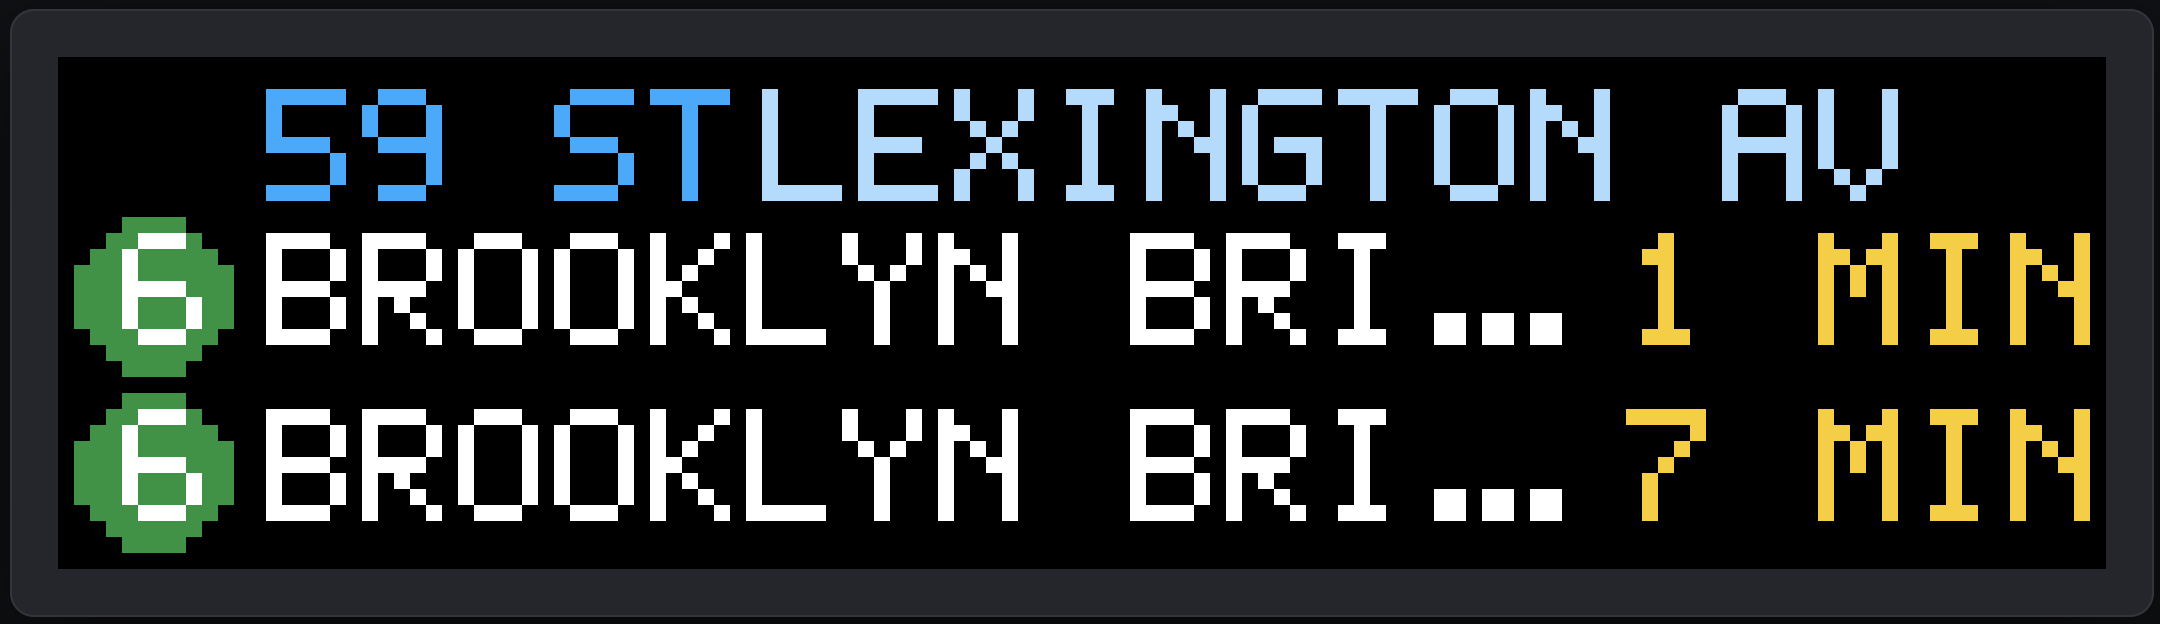
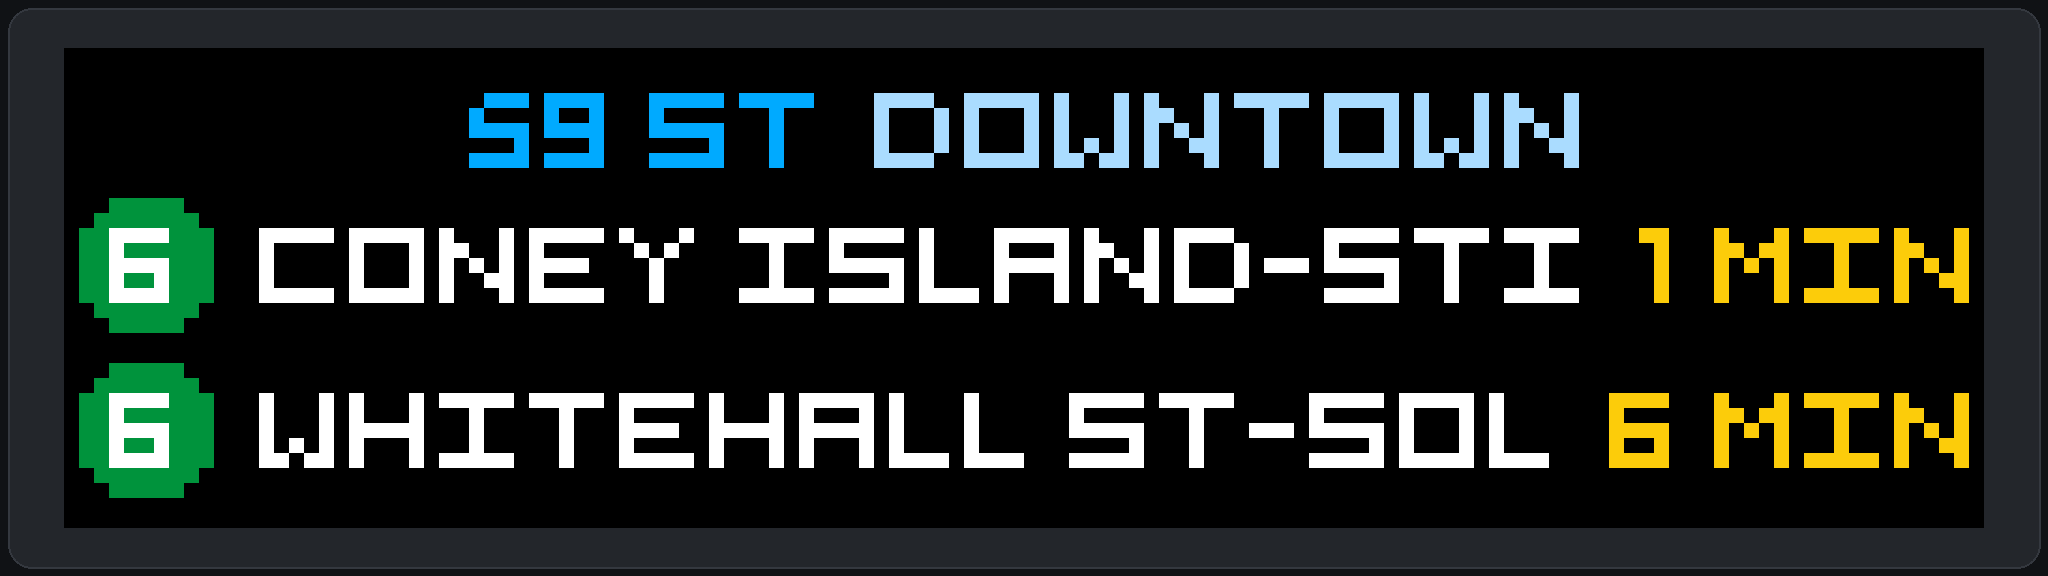
Use 5x5 Pixel font across board

Changed region(s): [[0.0, 0.0938, 1.0, 0.9375], [0.125, 0.125, 0.9062, 0.3438], [0.0312, 0.0625, 0.9688, 0.0938]]

diff --git a/src/mta_board/render.py b/src/mta_board/render.py
@@ -52,107 +52,71 @@ ROUTE_BULLET = (
     "011111110",
     "001111100",
 )
+ROUTE_PILL = (
+    "00111111100",
+    "01111111110",
+    "11111111111",
+    "11111111111",
+    "11111111111",
+    "11111111111",
+    "11111111111",
+    "01111111110",
+    "00111111100",
+)
 
-# Nitram Micro Mono 5x5 by Martin W. Kirst, used under the MIT License.
-# https://github.com/nitram509/nitram-micro-font
-ROUTE_GLYPHS: dict[str, tuple[int, ...]] = {
-    "0": (14, 25, 21, 19, 14), "1": (4, 6, 4, 4, 14),
-    "2": (14, 8, 14, 2, 14), "3": (14, 8, 12, 8, 14),
-    "4": (2, 2, 10, 14, 8), "5": (14, 2, 14, 8, 14),
-    "6": (6, 2, 14, 10, 14), "7": (14, 8, 12, 8, 8),
-    "8": (14, 10, 14, 10, 14), "9": (14, 10, 14, 8, 14),
-    "A": (6, 9, 17, 31, 17), "B": (7, 9, 15, 17, 15),
-    "C": (14, 17, 1, 17, 14), "D": (15, 25, 17, 17, 15),
-    "E": (31, 1, 15, 1, 31), "F": (31, 1, 15, 1, 1),
-    "G": (14, 1, 25, 17, 14), "H": (9, 17, 31, 17, 17),
-    "I": (14, 4, 4, 4, 14), "J": (12, 8, 8, 10, 14),
-    "K": (9, 5, 3, 5, 9), "L": (1, 1, 1, 1, 15),
-    "M": (17, 27, 21, 17, 17), "N": (17, 19, 21, 25, 17),
-    "O": (14, 25, 17, 17, 14), "P": (7, 9, 7, 1, 1),
-    "Q": (14, 17, 17, 25, 30), "R": (7, 9, 7, 5, 9),
-    "S": (30, 1, 14, 16, 15), "T": (31, 4, 4, 4, 4),
-    "U": (9, 17, 17, 17, 14), "V": (10, 10, 10, 10, 4),
-    "W": (9, 17, 21, 21, 10), "X": (17, 10, 4, 10, 17),
-    "Y": (17, 10, 4, 4, 4), "Z": (31, 8, 4, 2, 31),
-}
-
-# Fixed 5x7 bitmap glyphs keep every character aligned to the LED grid. Using
-# Pillow's default font here would allow different Pillow versions to select
-# antialiased fonts, which look soft when enlarged in the browser preview.
+# Bitmap glyphs derived from Daniel J. Smith's 5x5 Pixel font, distributed as
+# 100% Free. The source font only contains letters, digits, and spaces, so the
+# punctuation below is drawn to match. Storing the native-resolution bitmaps
+# keeps rendering crisp and identical across Pillow and FreeType versions.
+# https://www.dafont.com/5x5-pixel.font
 GLYPHS: dict[str, tuple[str, ...]] = {
-    " ": ("00000",) * 7,
-    "-": ("00000", "00000", "00000", "11111", "00000", "00000", "00000"),
-    ".": ("00000", "00000", "00000", "00000", "00000", "01100", "01100"),
-    "/": ("00001", "00010", "00100", "00100", "01000", "10000", "00000"),
-    "0": ("01110", "10001", "10011", "10101", "11001", "10001", "01110"),
-    "1": ("00100", "01100", "00100", "00100", "00100", "00100", "01110"),
-    "2": ("01110", "10001", "00001", "00010", "00100", "01000", "11111"),
-    "3": ("11110", "00001", "00001", "01110", "00001", "00001", "11110"),
-    "4": ("00010", "00110", "01010", "10010", "11111", "00010", "00010"),
-    "5": ("11111", "10000", "10000", "11110", "00001", "00001", "11110"),
-    "6": ("01110", "10000", "10000", "11110", "10001", "10001", "01110"),
-    "7": ("11111", "00001", "00010", "00100", "01000", "01000", "01000"),
-    "8": ("01110", "10001", "10001", "01110", "10001", "10001", "01110"),
-    "9": ("01110", "10001", "10001", "01111", "00001", "00001", "01110"),
-    "A": ("01110", "10001", "10001", "11111", "10001", "10001", "10001"),
-    "B": ("11110", "10001", "10001", "11110", "10001", "10001", "11110"),
-    "C": ("01111", "10000", "10000", "10000", "10000", "10000", "01111"),
-    "D": ("11110", "10001", "10001", "10001", "10001", "10001", "11110"),
-    "E": ("11111", "10000", "10000", "11110", "10000", "10000", "11111"),
-    "F": ("11111", "10000", "10000", "11110", "10000", "10000", "10000"),
-    "G": ("01111", "10000", "10000", "10111", "10001", "10001", "01110"),
-    "H": ("10001", "10001", "10001", "11111", "10001", "10001", "10001"),
-    "I": ("01110", "00100", "00100", "00100", "00100", "00100", "01110"),
-    "J": ("00001", "00001", "00001", "00001", "10001", "10001", "01110"),
-    "K": ("10001", "10010", "10100", "11000", "10100", "10010", "10001"),
-    "L": ("10000", "10000", "10000", "10000", "10000", "10000", "11111"),
-    "M": ("10001", "11011", "10101", "10101", "10001", "10001", "10001"),
-    "N": ("10001", "11001", "10101", "10011", "10001", "10001", "10001"),
-    "O": ("01110", "10001", "10001", "10001", "10001", "10001", "01110"),
-    "P": ("11110", "10001", "10001", "11110", "10000", "10000", "10000"),
-    "Q": ("01110", "10001", "10001", "10001", "10101", "10010", "01101"),
-    "R": ("11110", "10001", "10001", "11110", "10100", "10010", "10001"),
-    "S": ("01111", "10000", "10000", "01110", "00001", "00001", "11110"),
-    "T": ("11111", "00100", "00100", "00100", "00100", "00100", "00100"),
-    "U": ("10001", "10001", "10001", "10001", "10001", "10001", "01110"),
-    "V": ("10001", "10001", "10001", "10001", "10001", "01010", "00100"),
-    "W": ("10001", "10001", "10001", "10101", "10101", "10101", "01010"),
-    "X": ("10001", "10001", "01010", "00100", "01010", "10001", "10001"),
-    "Y": ("10001", "10001", "01010", "00100", "00100", "00100", "00100"),
-    "Z": ("11111", "00001", "00010", "00100", "01000", "10000", "11111"),
+    " ": ("0",) * 5,
+    "-": ("000", "000", "111", "000", "000"),
+    ".": ("0", "0", "0", "0", "1"),
+    "/": ("00001", "00010", "00100", "01000", "10000"),
+    "0": ("01110", "10001", "10001", "10001", "01110"),
+    "1": ("11", "01", "01", "01", "01"),
+    "2": ("0110", "1001", "0010", "0100", "1111"),
+    "3": ("1111", "0001", "0111", "0001", "1111"),
+    "4": ("1001", "1001", "1111", "0001", "0001"),
+    "5": ("0111", "1000", "1111", "0001", "1111"),
+    "6": ("1111", "1000", "1111", "1001", "1111"),
+    "7": ("1111", "0001", "0010", "0100", "1000"),
+    "8": ("1111", "1001", "0110", "1001", "1111"),
+    "9": ("1111", "1001", "1111", "0001", "1111"),
+    "A": ("11111", "10001", "11111", "10001", "10001"),
+    "B": ("11110", "10001", "11111", "10001", "11110"),
+    "C": ("11111", "10000", "10000", "10000", "11111"),
+    "D": ("11110", "10001", "10001", "10001", "11110"),
+    "E": ("11111", "10000", "11110", "10000", "11111"),
+    "F": ("11111", "10000", "11110", "10000", "10000"),
+    "G": ("11111", "10000", "10111", "10001", "11111"),
+    "H": ("10001", "10001", "11111", "10001", "10001"),
+    "I": ("11111", "00100", "00100", "00100", "11111"),
+    "J": ("1111", "0010", "0010", "1010", "1110"),
+    "K": ("1001", "1010", "1100", "1010", "1001"),
+    "L": ("1000", "1000", "1000", "1000", "1111"),
+    "M": ("10001", "11011", "10101", "10001", "10001"),
+    "N": ("10001", "11001", "10101", "10011", "10001"),
+    "O": ("11111", "10001", "10001", "10001", "11111"),
+    "P": ("11111", "10001", "11111", "10000", "10000"),
+    "Q": ("11111", "10001", "10001", "10011", "11111"),
+    "R": ("11111", "10001", "11111", "10010", "10001"),
+    "S": ("11111", "10000", "11111", "00001", "11111"),
+    "T": ("11111", "00100", "00100", "00100", "00100"),
+    "U": ("10001", "10001", "10001", "10001", "11111"),
+    "V": ("10001", "10001", "01010", "01010", "00100"),
+    "W": ("10001", "10001", "10001", "10101", "11011"),
+    "X": ("10001", "01010", "00100", "01010", "10001"),
+    "Y": ("10001", "01010", "00100", "00100", "00100"),
+    "Z": ("11111", "00010", "00100", "01000", "11111"),
 }
-
-MINI_GLYPHS: dict[str, tuple[str, ...]] = {
-    " ": ("000",) * 5, "-": ("000", "000", "111", "000", "000"),
-    ".": ("000", "000", "000", "000", "010"),
-    "/": ("001", "001", "010", "100", "100"),
-    "0": ("111", "101", "101", "101", "111"), "1": ("010", "110", "010", "010", "111"),
-    "2": ("110", "001", "010", "100", "111"), "3": ("110", "001", "010", "001", "110"),
-    "4": ("101", "101", "111", "001", "001"), "5": ("111", "100", "110", "001", "110"),
-    "6": ("011", "100", "111", "101", "111"), "7": ("111", "001", "010", "010", "010"),
-    "8": ("111", "101", "111", "101", "111"), "9": ("111", "101", "111", "001", "110"),
-    "A": ("010", "101", "111", "101", "101"), "B": ("110", "101", "110", "101", "110"),
-    "C": ("011", "100", "100", "100", "011"), "D": ("110", "101", "101", "101", "110"),
-    "E": ("111", "100", "110", "100", "111"), "F": ("111", "100", "110", "100", "100"),
-    "G": ("011", "100", "101", "101", "011"), "H": ("101", "101", "111", "101", "101"),
-    "I": ("111", "010", "010", "010", "111"), "J": ("001", "001", "001", "101", "010"),
-    "K": ("101", "101", "110", "101", "101"), "L": ("100", "100", "100", "100", "111"),
-    "M": ("101", "111", "111", "101", "101"), "N": ("101", "111", "111", "111", "101"),
-    "O": ("010", "101", "101", "101", "010"), "P": ("110", "101", "110", "100", "100"),
-    "Q": ("010", "101", "101", "111", "011"), "R": ("110", "101", "110", "101", "101"),
-    "S": ("011", "100", "010", "001", "110"), "T": ("111", "010", "010", "010", "010"),
-    "U": ("101", "101", "101", "101", "111"), "V": ("101", "101", "101", "101", "010"),
-    "W": ("101", "101", "111", "111", "101"), "X": ("101", "101", "010", "101", "101"),
-    "Y": ("101", "101", "010", "010", "010"), "Z": ("111", "001", "010", "100", "111"),
-}
-
 
 def _text_width(text: str) -> int:
     if not text:
         return 0
-    advances = sum(3 if character == "." else 6 for character in text[:-1])
-    final_width = 3 if text[-1] == "." else 5
-    return advances + final_width
+    glyphs = [GLYPHS.get(character, GLYPHS[" "]) for character in text.upper()]
+    return sum(len(glyph[0]) + 1 for glyph in glyphs[:-1]) + len(glyphs[-1][0])
 
 
 def _fit_text(text: str, width: int) -> str:
@@ -180,24 +144,7 @@ def _draw_text(
             for column_index, pixel in enumerate(row):
                 if pixel == "1":
                     draw.point((glyph_x + column_index, start_y + row_index), fill=fill)
-        glyph_x += 3 if character == "." else 6
-
-
-def _draw_mini_text(
-    draw: ImageDraw.ImageDraw,
-    position: tuple[int, int],
-    text: str,
-    fill: tuple[int, int, int],
-) -> None:
-    start_x, start_y = position
-    glyph_x = start_x
-    for character in text.upper():
-        glyph = MINI_GLYPHS.get(character, MINI_GLYPHS[" "])
-        for row_index, row in enumerate(glyph):
-            for column_index, pixel in enumerate(row):
-                if pixel == "1":
-                    draw.point((glyph_x + column_index, start_y + row_index), fill=fill)
-        glyph_x += 2 if character == "." else 4
+        glyph_x += len(glyph[0]) + 1
 
 
 def _scroll_offset(
@@ -248,7 +195,7 @@ def _paste_text_strip(
 
 
 def _text_strip(text: str, fill: tuple[int, int, int]) -> Image.Image:
-    strip = Image.new("RGB", (max(1, _text_width(text)), 7), (0, 0, 0))
+    strip = Image.new("RGB", (max(1, _text_width(text)), 5), (0, 0, 0))
     _draw_text(ImageDraw.Draw(strip), (0, 0), text, fill)
     return strip
 
@@ -268,24 +215,12 @@ def _draw_route_bullet(
     draw: ImageDraw.ImageDraw,
     position: tuple[int, int],
     fill: tuple[int, int, int],
+    pattern: tuple[str, ...] = ROUTE_BULLET,
 ) -> None:
     start_x, start_y = position
-    for row_index, row in enumerate(ROUTE_BULLET):
+    for row_index, row in enumerate(pattern):
         for column_index, pixel in enumerate(row):
             if pixel == "1":
-                draw.point((start_x + column_index, start_y + row_index), fill=fill)
-
-
-def _draw_route_glyph(
-    draw: ImageDraw.ImageDraw,
-    position: tuple[int, int],
-    character: str,
-    fill: tuple[int, int, int],
-) -> None:
-    start_x, start_y = position
-    for row_index, row in enumerate(ROUTE_GLYPHS[character]):
-        for column_index in range(5):
-            if row & (1 << column_index):
                 draw.point((start_x + column_index, start_y + row_index), fill=fill)
 
 
@@ -357,7 +292,7 @@ def render_board(
     header_width = _text_width(station_name)
     if station_context:
         header_width += header_gap + _text_width(station_context)
-    header_strip = Image.new("RGB", (max(1, header_width), 7), (0, 0, 0))
+    header_strip = Image.new("RGB", (max(1, header_width), 5), (0, 0, 0))
     header_draw = ImageDraw.Draw(header_strip)
     _draw_text(header_draw, (0, 0), station_name, STATION_COLOR)
     if station_context:
@@ -379,7 +314,7 @@ def render_board(
     _paste_text_strip(
         image,
         header_strip,
-        (1, 2),
+        (1, 3),
         header_viewport_width,
         current,
         state.updated_at or current,
@@ -397,23 +332,17 @@ def render_board(
         # A hand-tuned 9x9 silhouette stays circular on the coarse LED grid.
         y = 10 + index * 11
         color = ROUTE_COLORS.get(arrival.route, (128, 129, 131))
-        _draw_route_bullet(draw, (1, y), color)
         route_label = arrival.route[:2]
-        if len(route_label) == 1 and route_label in ROUTE_GLYPHS:
-            _draw_route_glyph(
-                draw,
-                (3, y + 2),
-                route_label,
-                _route_text_color(arrival.route),
-            )
-        else:
-            route_width = len(route_label) * 4 - 1
-            _draw_mini_text(
-                draw,
-                (1 + (9 - route_width) // 2, y + 2),
-                route_label,
-                _route_text_color(arrival.route),
-            )
+        badge_pattern = ROUTE_BULLET if len(route_label) == 1 else ROUTE_PILL
+        badge_width = len(badge_pattern[0])
+        _draw_route_bullet(draw, (1, y), color, badge_pattern)
+        route_width = _text_width(route_label)
+        _draw_text(
+            draw,
+            (1 + (badge_width - route_width) // 2, y + 2),
+            route_label,
+            _route_text_color(arrival.route),
+        )
         countdown = _countdown(arrival, current)
         countdown_width = _text_width(countdown)
         countdown_x = config.display.width - 1 - countdown_width
@@ -426,14 +355,14 @@ def render_board(
         _paste_text_strip(
             image,
             _text_strip(destination, (255, 255, 255)),
-            (DESTINATION_X, y + 1),
+            (DESTINATION_X, y + 2),
             destination_width,
             current,
             state.updated_at or current,
             synchronized_overflow_width,
             config.display.scrolling,
         )
-        _draw_text(draw, (countdown_x, y + 1), countdown, (252, 204, 10))
+        _draw_text(draw, (countdown_x, y + 2), countdown, (252, 204, 10))
 
     if degraded:
         status_y = 21

diff --git a/tests/test_render.py b/tests/test_render.py
@@ -47,7 +47,7 @@ class RenderTests(unittest.TestCase):
         )
 
     def test_ellipsis_dots_are_tightly_spaced(self) -> None:
-        self.assertEqual(_text_width("..."), 9)
+        self.assertEqual(_text_width("..."), 5)
 
     def test_long_text_scrolls_and_toggle_can_freeze_it(self) -> None:
         now = datetime(2026, 9, 7, 16, 0, tzinfo=timezone.utc)
@@ -97,9 +97,9 @@ class RenderTests(unittest.TestCase):
         colors = {color for _, color in frame.getcolors(maxcolors=128 * 32) or []}
         self.assertIn(ROUTE_COLORS["N"], colors)
         # The station header occupies the top band; arrivals begin below it.
-        self.assertTrue(any(frame.getpixel((x, 2)) == STATION_COLOR for x in range(1, 127)))
-        self.assertTrue(any(frame.getpixel((x, 2)) == LINE_COLOR for x in range(1, 127)))
-        self.assertTrue(any(frame.getpixel((x, 8)) == LINE_COLOR for x in range(1, 127)))
+        self.assertTrue(any(frame.getpixel((x, 3)) == STATION_COLOR for x in range(1, 127)))
+        self.assertTrue(any(frame.getpixel((x, 3)) == LINE_COLOR for x in range(1, 127)))
+        self.assertTrue(any(frame.getpixel((x, 7)) == LINE_COLOR for x in range(1, 127)))
         self.assertEqual(frame.getpixel((5, 10)), ROUTE_COLORS["N"])
 
     def test_stale_frame_contains_red_status_area(self) -> None:
@@ -154,6 +154,25 @@ class RenderTests(unittest.TestCase):
         self.assertEqual(max(x for x, _ in white_pixels), 7)
         self.assertEqual(min(y for _, y in white_pixels), 12)
         self.assertEqual(max(y for _, y in white_pixels), 16)
+
+    def test_two_character_route_uses_full_size_font_in_wide_badge(self) -> None:
+        now = datetime(2026, 9, 7, 16, 0, tzinfo=timezone.utc)
+        state = BoardState(
+            station_id="D21",
+            station_name="Broadway-Lafayette St",
+            direction="S",
+            routes=("FX",),
+            arrivals=(Arrival("FX", "Coney Island", now + timedelta(minutes=3)),),
+            updated_at=now,
+        )
+
+        frame = render_board(state, AppConfig(), now=now)
+
+        # The native-width F and X span the full 11-pixel pill.
+        self.assertEqual(frame.getpixel((1, 12)), (255, 255, 255))
+        self.assertEqual(frame.getpixel((11, 12)), (255, 255, 255))
+        self.assertEqual(frame.getpixel((1, 10)), (0, 0, 0))
+        self.assertEqual(frame.getpixel((3, 10)), ROUTE_COLORS["FX"])
 
     def test_route_bullet_has_a_round_pixel_silhouette(self) -> None:
         now = datetime(2026, 9, 7, 16, 0, tzinfo=timezone.utc)

diff --git a/README.md b/README.md
@@ -4,7 +4,7 @@
 
 A configurable NYC subway arrival board with a pixel-accurate browser preview and an optional 128×32 HUB75 LED matrix output.
 
-The layout shows the station name and next two trains using a crisp 5×7 LED font, official route colors, destinations, and countdowns. Live MTA subway data does not require an API key.
+The layout shows the station name and next two trains using Daniel J. Smith's crisp 5x5 Pixel font, official route colors, destinations, and countdowns. Live MTA subway data does not require an API key.
 
 The included configuration tracks Manhattan-bound N/W trains at Broadway in Astoria:
 
